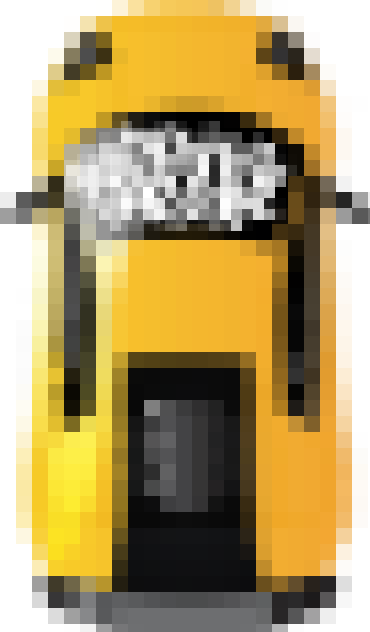
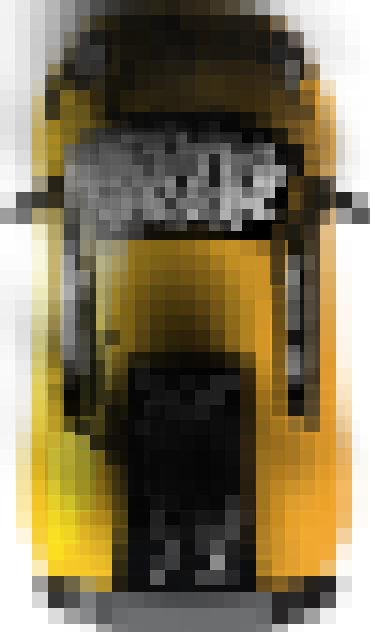
Added a crash state and added the broken car files.

diff --git a/App.cpp b/App.cpp
@@ -4,13 +4,17 @@
 #include <iostream>
 #include "../visualc15/intro.h"
 
+float explosionX;
+float explosionY;
+bool animateOnce = false;
 
 App::App(int argc, char** argv) : GlutApp(argc, argv) {
 
-	//explosion = new AnimatedRect("../fireball.bmp", 6, 6, 100, -0.5, 0.5, 0.5, 0.5);
+	explosion = new AnimatedRect("../explode_1.png", 4, 4, 100, -0.5, 0.5, 0.5, 0.5);
 
 	selectedCar = new car();
 	intro = new introduction();
+	background = new TexRect("../5lane.png", -1, 1, 2, 2);
 
 	
 	for (int i = 0; i < 3; i++) {
@@ -33,13 +37,15 @@ void App::draw() {
 
 	
 	if (intro->getIntroDone()) {
-		selectedCar->draw(0.15);
-		
-											// place stuff outside of here in here once done : NOTE
-		barrels[0]->draw(0.0);
-		barrels[1]->draw(0.0);
-		barrels[2]->draw(0.0);
+		background->draw(-0.5);
 
+		barrels[0]->draw(-0.1);
+		barrels[1]->draw(-0.1);
+		barrels[2]->draw(-0.1);
+
+		selectedCar->draw(0.0);
+
+		explosion->draw(0.15);
 	}
 	
 }
@@ -50,11 +56,60 @@ void App::idle() {
 		barrels[1]->startMovement();
 		barrels[2]->startMovement();
 
-		/*
-		barrels[0]->getHit(selectedCar->getX(), selectedCar->getY());
-		barrels[1]->getHit(selectedCar->getX(), selectedCar->getY());
-		barrels[2]->getHit(selectedCar->getX(), selectedCar->getY());
-		*/
+		if (selectedCar->getEndState() == false) {
+			for (int i = 0; i < 3; i++) {
+				if (barrels[i]->getHit(selectedCar->getX(), selectedCar->getY())) {
+					if (selectedCar->getFilename() == "../lambo.png") {
+						selectedCar->setImage("../lambobroke.png");
+						selectedCar->setAnimating(false);
+						barrels[0]->setAnimating(false);
+						barrels[1]->setAnimating(false);
+						barrels[2]->setAnimating(false);
+						explosionX = barrels[i]->getX();
+						explosionY = barrels[i]->getY();
+						explosion->setX(explosionX);
+						explosion->setY(explosionY);
+						//explosion->playOnce();
+						selectedCar->setEndState(true);
+						break;
+					}
+					else if (selectedCar->getFilename() == "../shelby.png") {
+						selectedCar->setImage("../shelbybroke.png");
+						selectedCar->setAnimating(false);
+						barrels[0]->setAnimating(false);
+						barrels[1]->setAnimating(false);
+						barrels[2]->setAnimating(false);
+						explosionX = barrels[i]->getX();
+						explosionY = barrels[i]->getY();
+						explosion->setX(explosionX);
+						explosion->setY(explosionY);
+						//explosion->playOnce();
+						selectedCar->setEndState(true);
+						break;
+					}
+					else if (selectedCar->getFilename() == "../E30.png") {
+						selectedCar->setImage("../E30broke.png");
+						selectedCar->setAnimating(false);
+						barrels[0]->setAnimating(false);
+						barrels[1]->setAnimating(false);
+						barrels[2]->setAnimating(false);
+						explosionX = barrels[i]->getX();
+						explosionY = barrels[i]->getY();
+						explosion->setX(explosionX);
+						explosion->setY(explosionY);
+						//explosion->playOnce();
+						selectedCar->setEndState(true);
+						break;
+					}
+				}
+			}
+		}
+
+		
+
+		if (selectedCar->getEndState()) {
+			explosion->playOnce();
+		}
 
 	}
 	
@@ -65,6 +120,10 @@ void App::keyDown(unsigned char key, float x, float y){
     if (key == 27){
         exit(0);
     }
+
+	if (key == ' ') {
+		explosion->playOnce();
+	}
 
 	if (key == 'a') {
 		selectedCar->turnLeft();
@@ -87,6 +146,7 @@ App::~App(){
 
 	delete selectedCar;
 	delete intro;
+	delete background;
 
 	
 	for (int i = 0; i < 3; i++) {

diff --git a/visualc15/car.h b/visualc15/car.h
@@ -15,8 +15,8 @@ class car : public TexRect, protected Timer {
 	engine* carengine;
 	gearbox* cargearbox;
 	bool animating;
-
 	bool left_right;		 // false = left, true = right
+	bool endState;
 
 public:
 
@@ -24,17 +24,17 @@ public:
 		velocity = 0; accel = 0; RPM = 0;
 	}
 																			 //filename, rows, columns, rate, x, y, w, h
-	car::car(char* fileName, engine &carengine, gearbox &cargearbox) : TexRect(fileName, LeftmostThree, 0, 0.370, 0.632) {
+	car::car(char* fileName, engine &carengine, gearbox &cargearbox) : TexRect(fileName, LeftmostThree, -0.5, 0.3, 0.512) {
 		this->carengine = &carengine;
 		this->cargearbox = &cargearbox;
 		this->filename = fileName;
 		accel = this->carengine->getBaseAccel();
 		accel += this->cargearbox->getBonusAccel();
 		animating = false;
-
 		left_right = true;
+		endState = false;
 
-		setRate(16);
+		setRate(7);
 		start();
 	}
 
@@ -46,10 +46,10 @@ public:
 		accel += this->cargearbox->getBonusAccel();
 		this->RPM = someCar.RPM;
 		animating = false;
-
 		left_right = true;
+		endState = false;
 
-		setRate(16);
+		setRate(7);
 		start();
 	}
 
@@ -78,6 +78,10 @@ public:
 		glutPostRedisplay();
 	}
 
+	void setEndState(bool end) {
+		endState = end;
+	}
+
 	void setImage(char* filename) {
 		texture_id = SOIL_load_OGL_texture
 		(
@@ -95,7 +99,14 @@ public:
 		glTexEnvf(GL_TEXTURE_ENV, GL_TEXTURE_ENV_MODE, GL_MODULATE);
 	}
 
+	void setAnimating(bool anim) {
+		animating = anim;
+	}
+
 	void turnLeft() {
+		if (endState) {
+			return;
+		}
 		left_right = false;
 		animating = true;
 		
@@ -119,6 +130,9 @@ public:
 	}
 
 	void turnRight() {
+		if (endState) {
+			return;
+		}
 		left_right = true;
 		animating = true;
 
@@ -155,12 +169,20 @@ public:
 		return RPM;
 	}
 
+	char* getFilename() const {
+		return filename;
+	}
+
 	bool getAnimating() const {
 		return animating;
 	}
 
 	bool getLeftRight() const {
 		return left_right;
+	}
+
+	bool getEndState() const {
+		return endState;
 	}
 
 
@@ -194,10 +216,6 @@ public:
 		}
 		
 		return velocity + accel;
-
-	}
-
-	void movementStart() {
 
 	}
 

diff --git a/visualc15/Obstacle.h b/visualc15/Obstacle.h
@@ -38,6 +38,10 @@ public:
 		start();
 	};
 
+	void setAnimating(bool anim) {
+		animating = anim;
+	}
+
 	void changeLane() {		// decides what lane the obstacle is in
 		lane = getRandom();
 		spawning = true;
@@ -90,12 +94,11 @@ public:
 		}
 	}
 
-	void getHit(float positionX, float positionY) {
+	bool getHit(float positionX, float positionY) {
 		if (contains(positionX, positionY)) {
-			// animate car explostion
-			glClear(GL_COLOR_BUFFER_BIT | GL_DEPTH_BUFFER_BIT);
-			// game over screen
+			return true;
 		}
+		return false;
 	}
 
 };

diff --git a/App.h b/App.h
@@ -12,8 +12,12 @@ class App: public GlutApp {
 	float mx;
 	float my;
 
+	AnimatedRect* explosion;
+
 	car* selectedCar;
 	introduction* intro;
+
+	TexRect* background;
 
 	std::vector<Obstacle*> barrels;
 	
